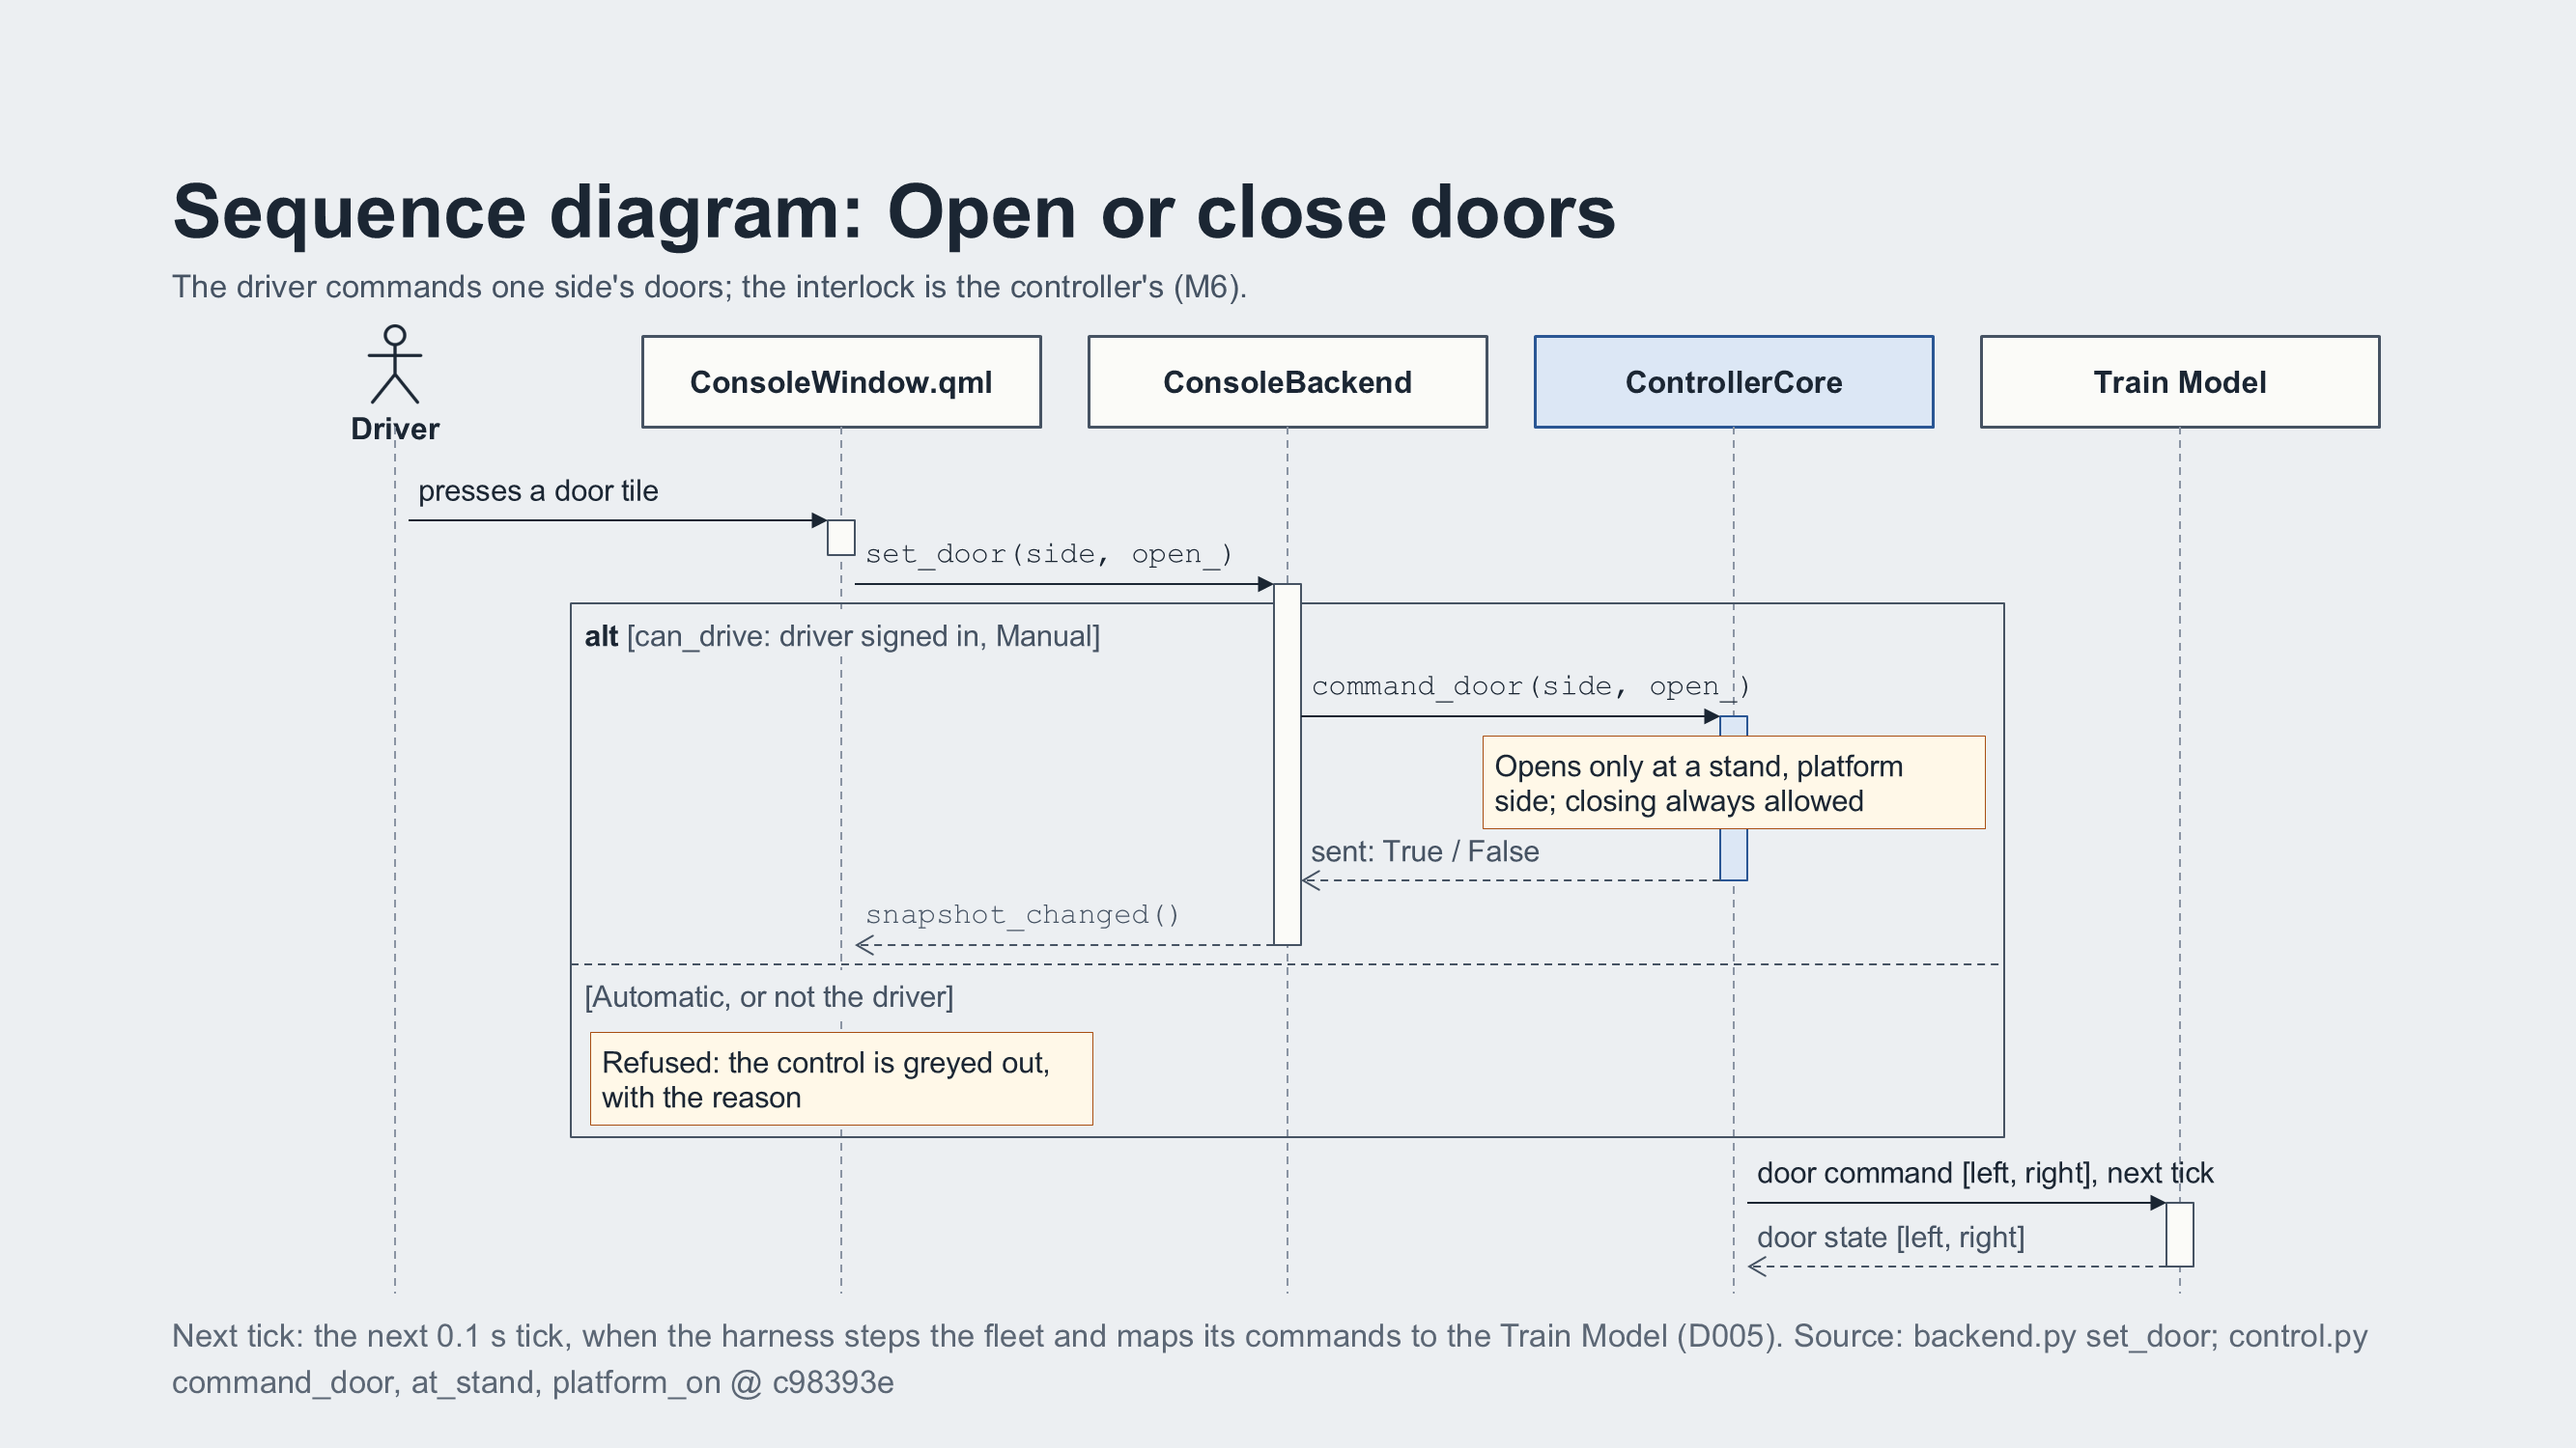
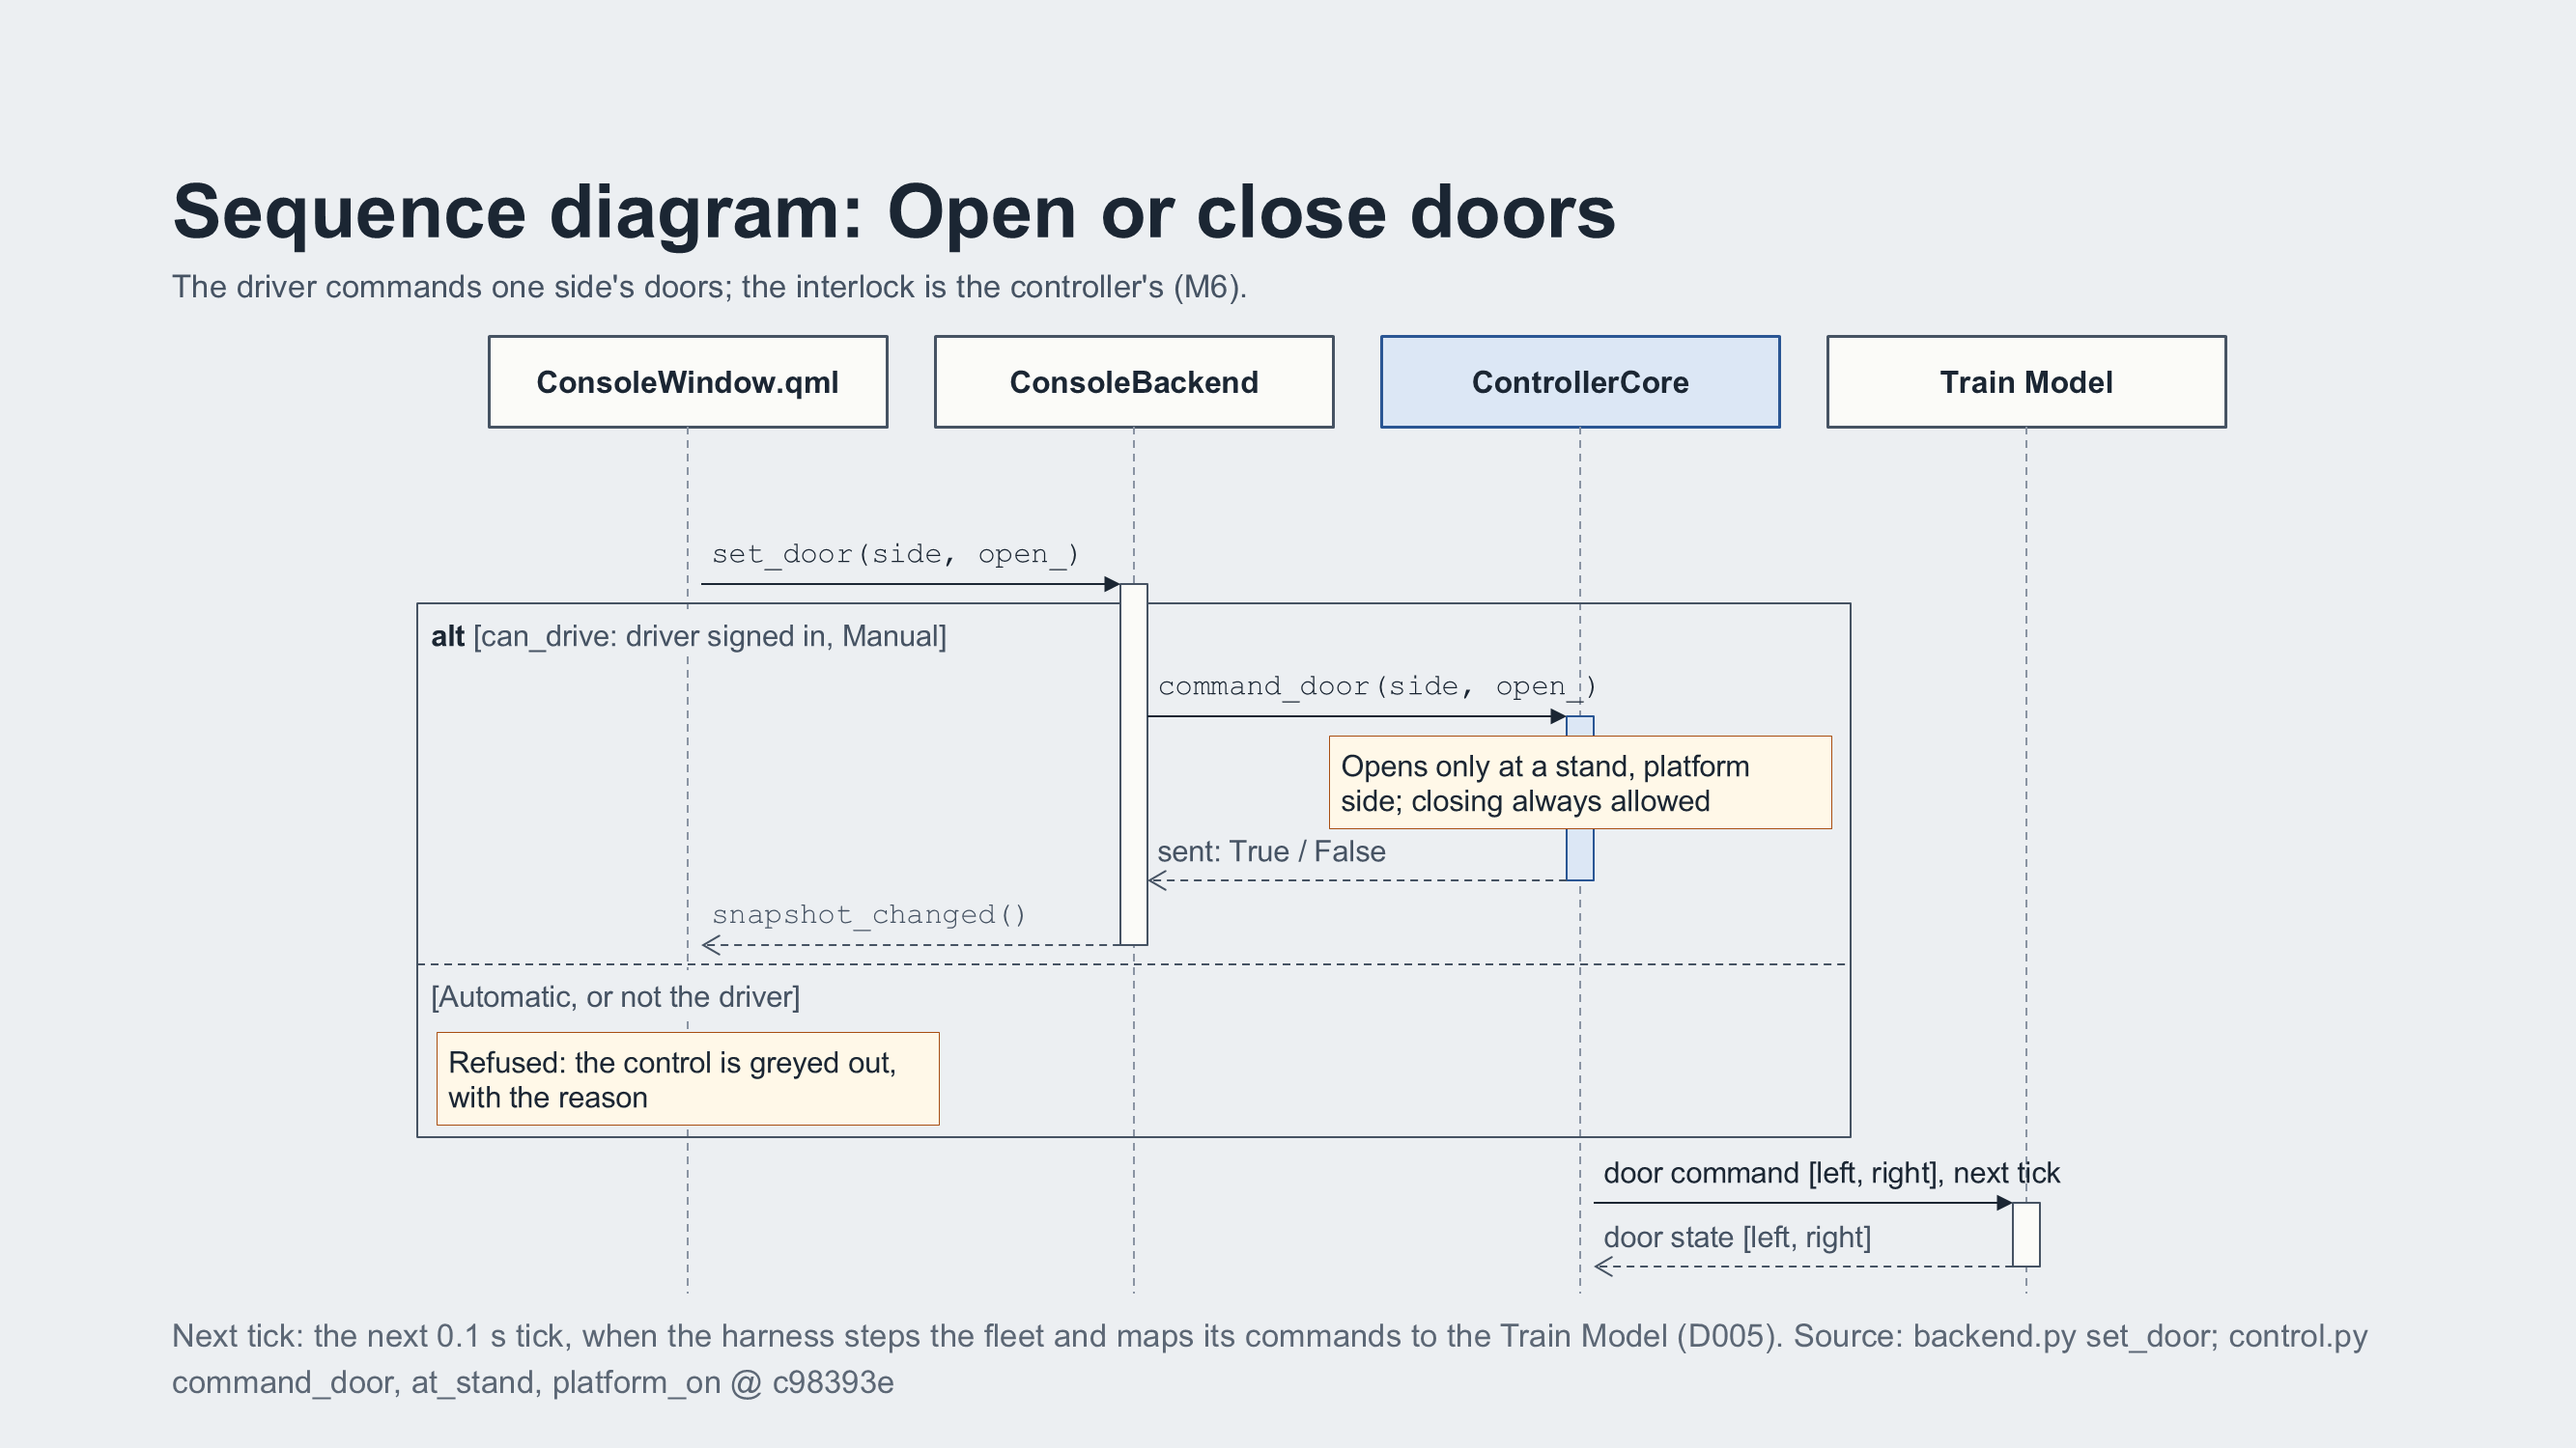
documents: SDD sequence diagrams without actors; use case 11 dropped
The ten user-started sequence diagrams no longer draw the Driver,
Engineer or Passenger: their lifelines, the messages they sent and the
activations those started were removed in the deck and the slides
re-exported. Use case 11 (Send signal aspect ahead) is removed: the
controller receives the signal aspect but does not send it.

diff --git a/documents/Railway_Sim_SDD_Train_Controller.md b/documents/Railway_Sim_SDD_Train_Controller.md
@@ -1023,18 +1023,6 @@ No user starts it: it runs in every tick (005-interaction).
 
 No user starts it: it runs in every tick (005-interaction).
 
-#### Use case 11 — Send signal aspect ahead
-
-| | |
-|---|---|
-| System | HW Train Controller |
-| Use case | Send signal aspect ahead |
-| Actors | Track Model |
-| Description | • Each tick the Track Model sends the next signal light ahead: RED, YELLOW, GREEN or SUPER GREEN.<br>• The console shows the light and what it means: Stop, Slow down, Continue to cruise, All clear ahead.<br>• It stands in for the light the driver sees through the front window.<br>• The controller does not act on it; the driver drives accordingly. |
-| Data | Input: signal aspect ahead<br>Output: the light and its meaning on the console |
-| Stimulus | The Track Model sends the signal aspect ahead. |
-| Response | The console shows the light; the driver drives to it. |
-
 ---
 
 *— End of document —*
